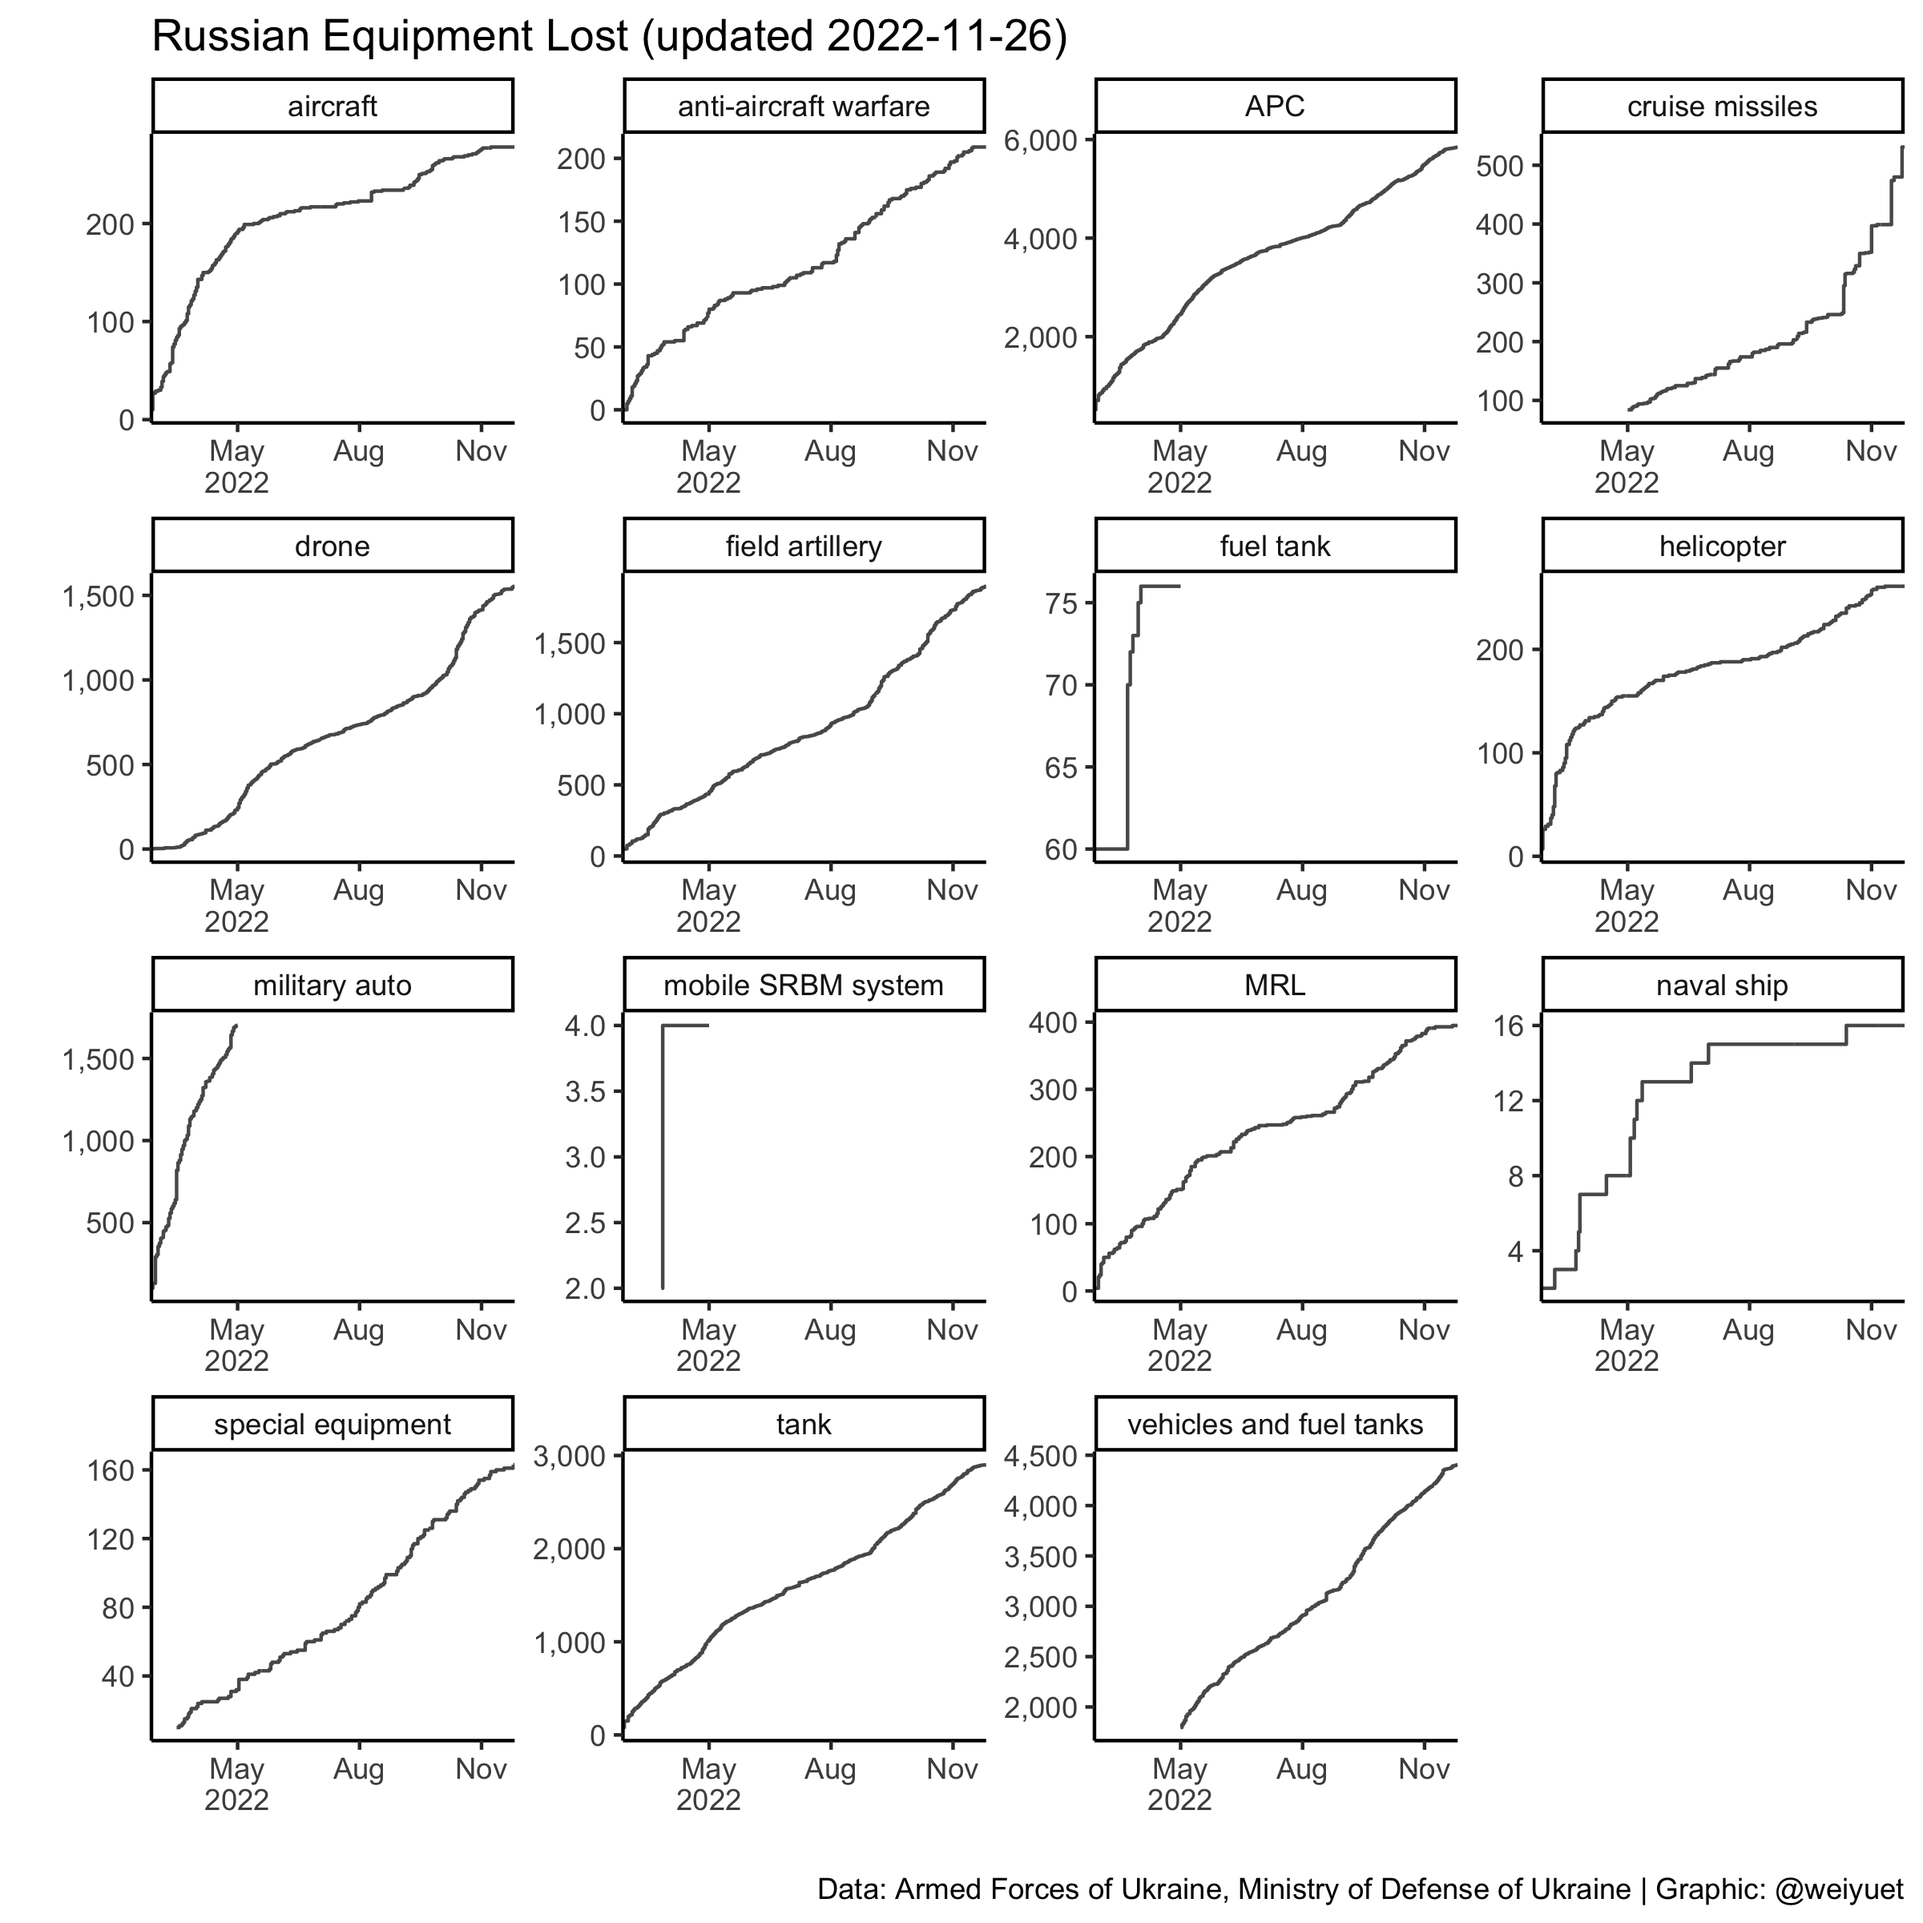
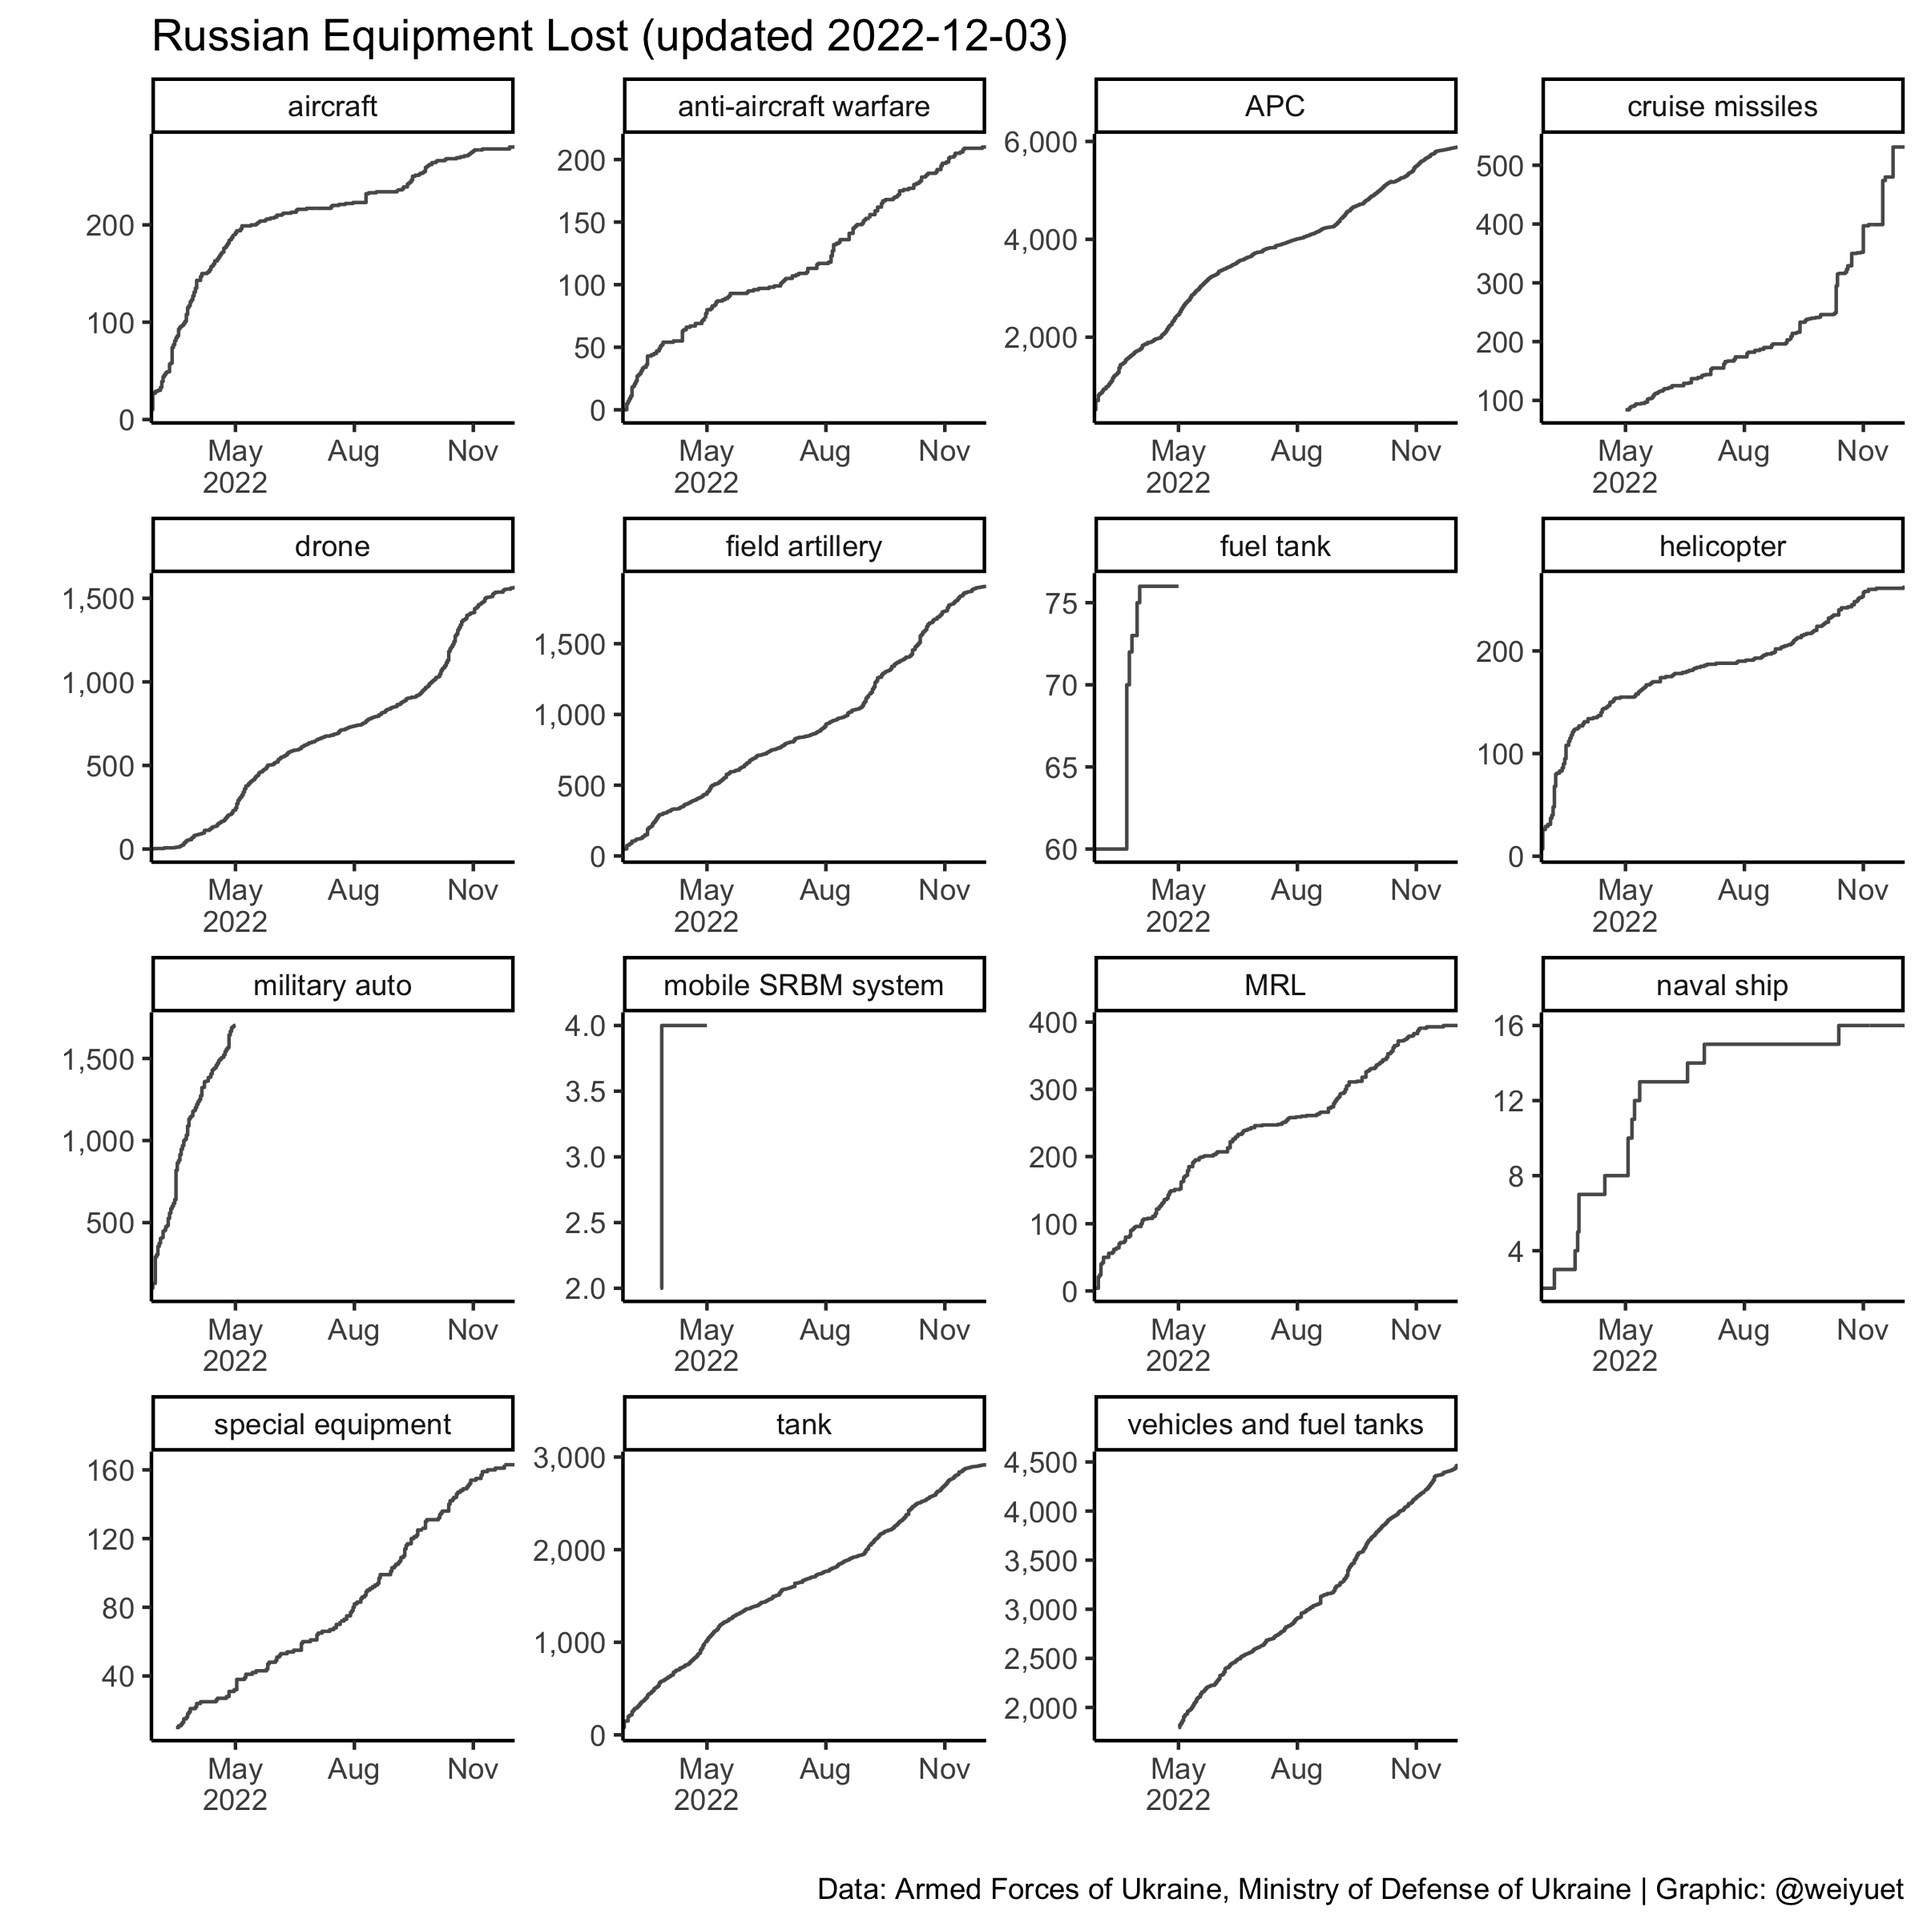
Updated 4 December

diff --git a/README.md b/README.md
@@ -6,7 +6,7 @@ Wong Wei Yuet 2022-05-26
 
   - War casualty data updated daily from [`Petro Ivanyuk's Kaggle`](https://www.kaggle.com/datasets/piterfm/2022-ukraine-russian-war). All data is official and put together by `Petro`
 
-Updated: 2022-11-27
+Updated: 2022-12-04
 
 ## Summary of Conflict
 
